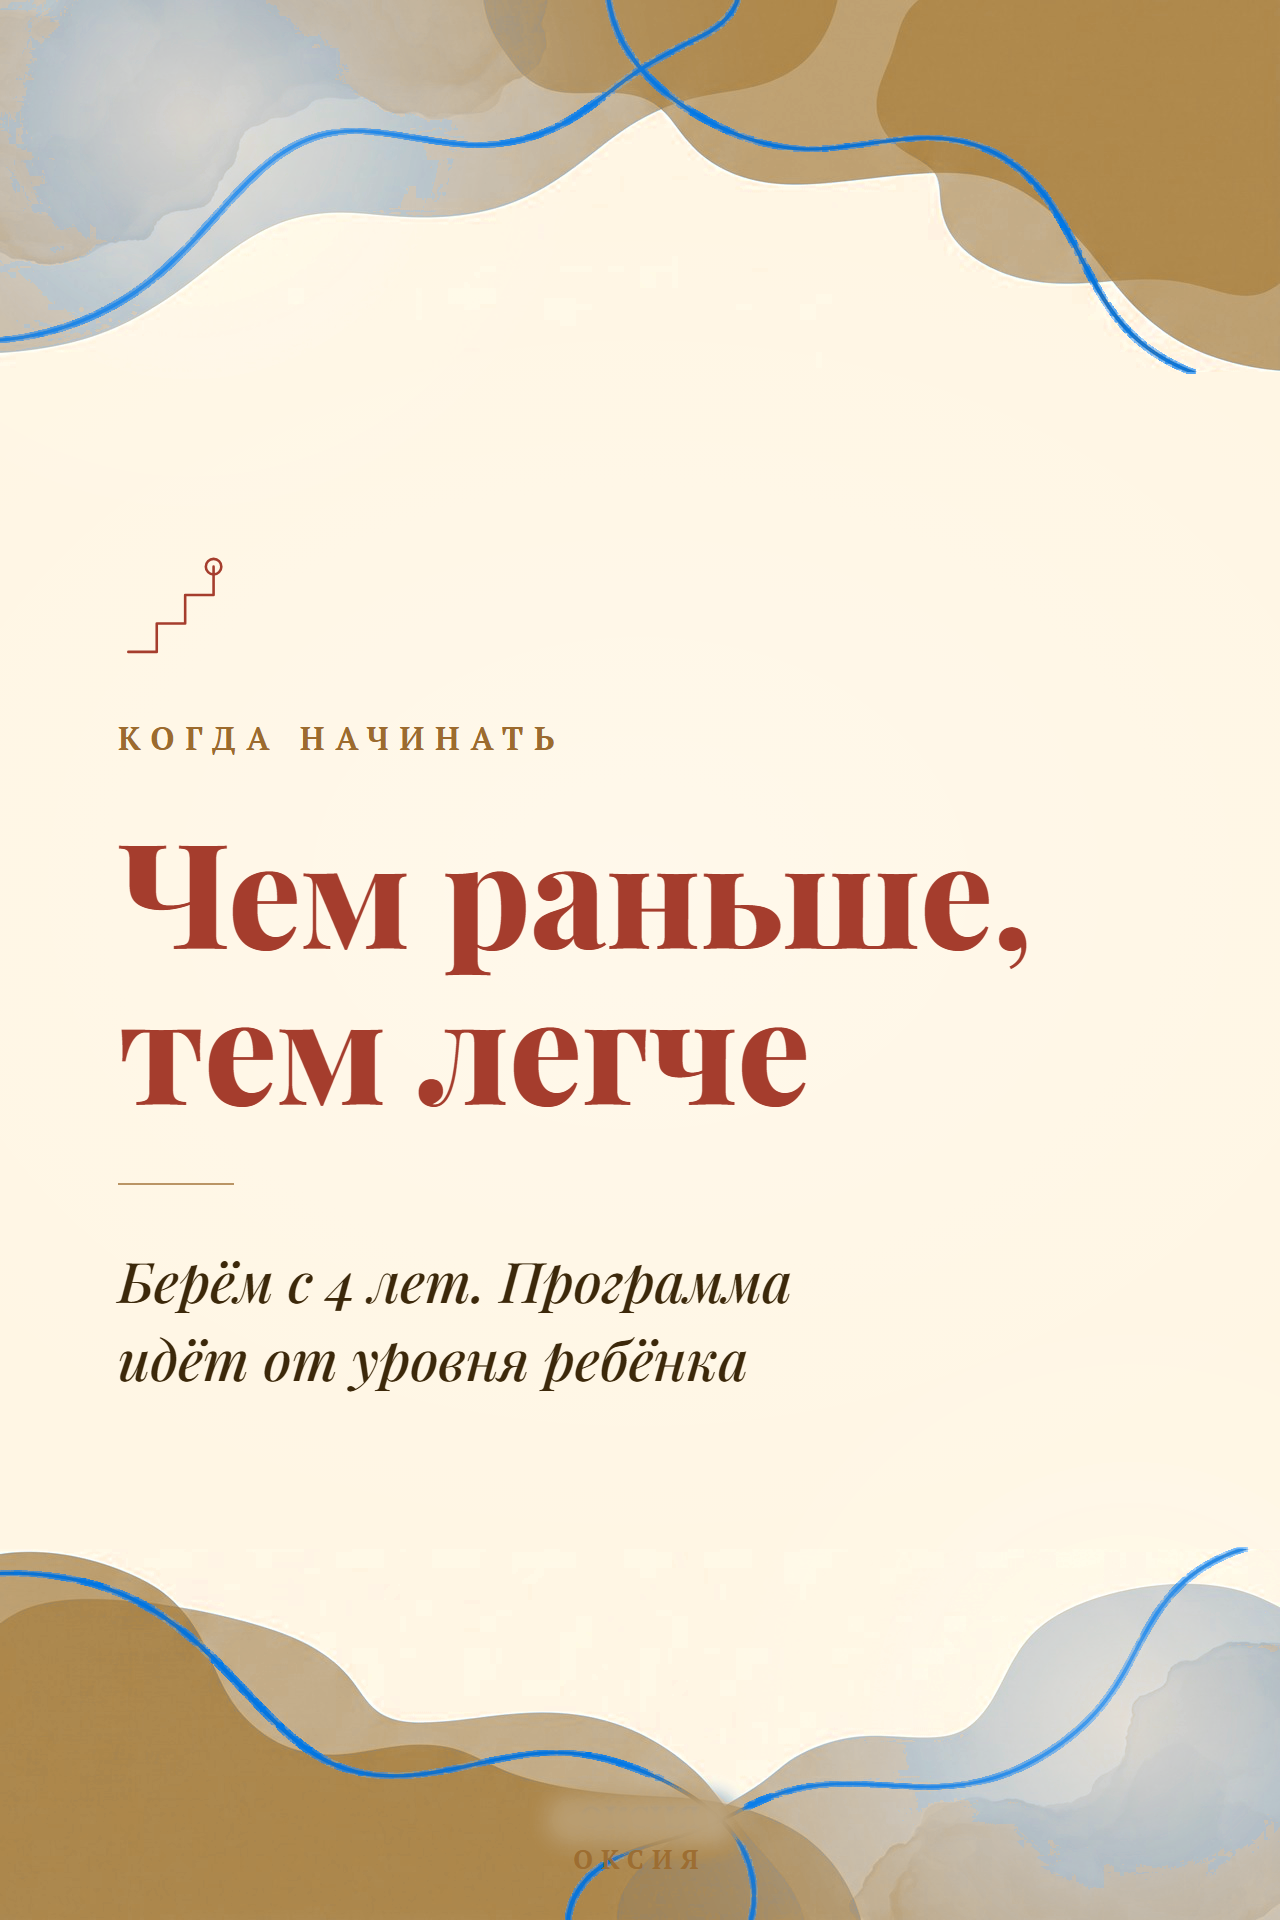
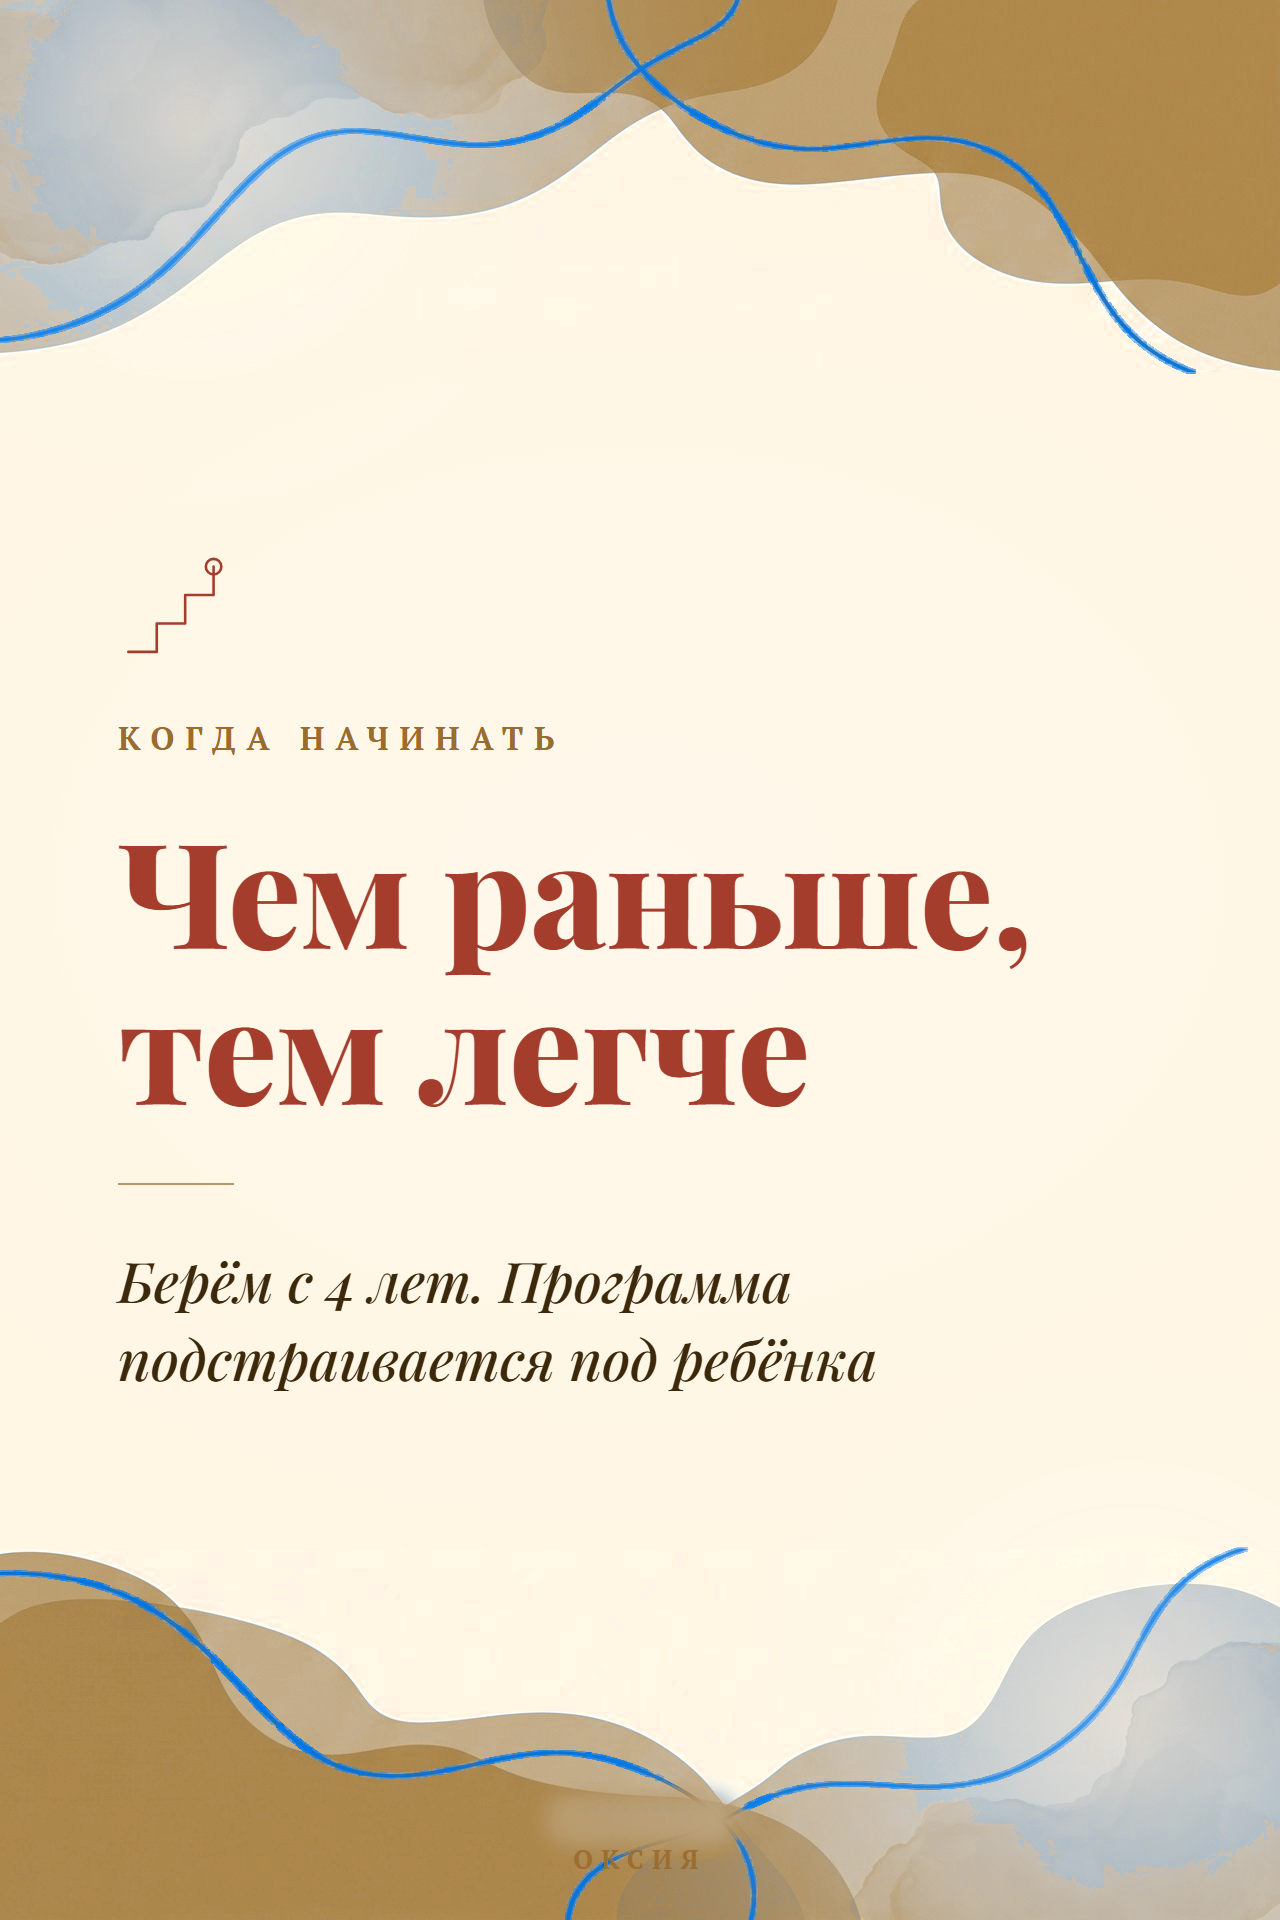
Слайд 9: 'подстраивается под ребёнка' вместо кальки 'идёт от уровня ребёнка'

Changed region(s): [[0.0938, 0.6875, 0.6875, 0.7188]]

diff --git a/story-preview/_build/slide-bright.html b/story-preview/_build/slide-bright.html
@@ -224,7 +224,7 @@ const S = {
   <div class="kick">Когда начинать</div>
   <h1 class="disp">Чем раньше,<br>тем легче</h1>
   <div class="hair"></div>
-  <div class="lead">Берём с 4 лет. Программа<br>идёт от уровня ребёнка</div>` },
+  <div class="lead">Берём с 4 лет. Программа<br>подстраивается под ребёнка</div>` },
 
 10:{ bg:'tb-bright', accent:'var(--blue-muted)', icon:I.bell, isize:'150px', ds:'132px', html:`
   <div class="kick">Как записаться</div>
